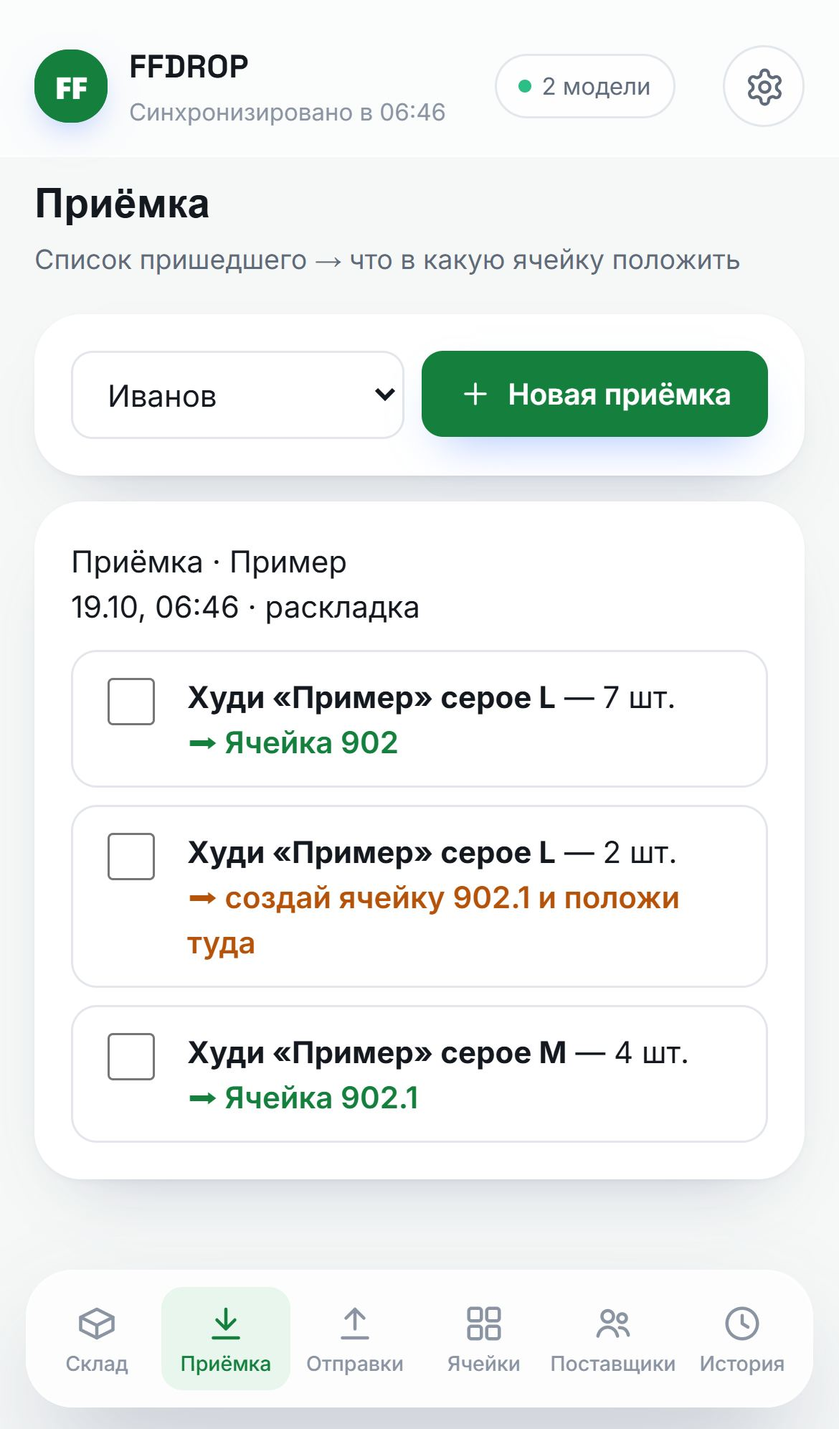
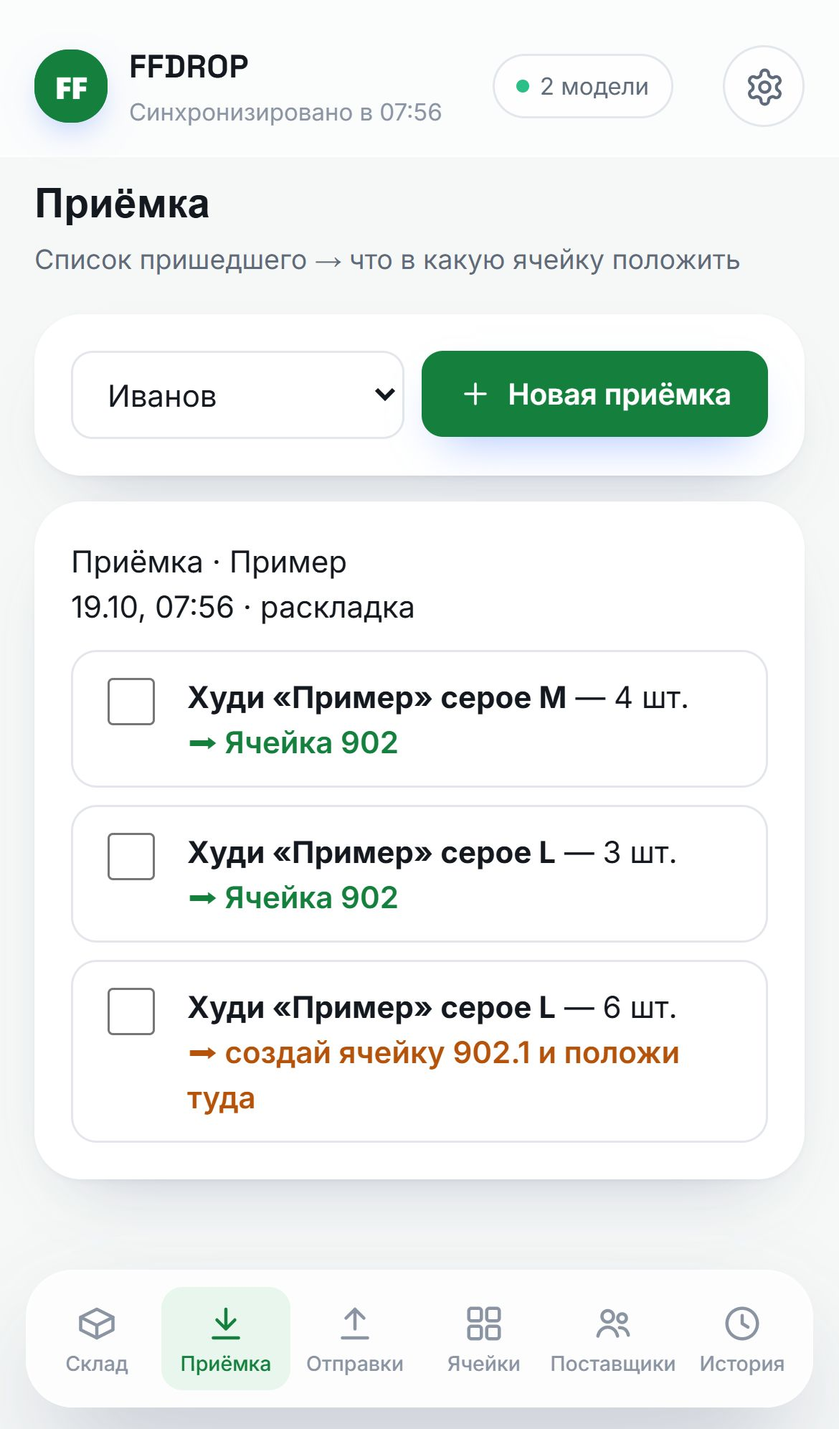
Выкладка FFDrop ffdrop-v4

diff --git a/app/index.html b/app/index.html
@@ -13,7 +13,7 @@
 <link rel="manifest" href="manifest.json">
 <link rel="apple-touch-icon" href="apple-touch-icon.png">
 <link rel="stylesheet" href="fonts/fonts.css">
-<link rel="stylesheet" href="css/app.css?v=3">
+<link rel="stylesheet" href="css/app.css?v=4">
 </head>
 <body>
 
@@ -61,6 +61,7 @@
   <symbol id="i-coins" viewBox="0 0 24 24"><ellipse cx="8.5" cy="6.5" rx="5.5" ry="3"/><path d="M3 6.5v4c0 1.66 2.46 3 5.5 3s5.5-1.34 5.5-3v-4"/><path d="M14 10.2c2.9-.2 6-1.4 6-3.2M9 13.5v3.5c0 1.66 2.46 3 5.5 3s5.5-1.34 5.5-3V13"/></symbol>
   <symbol id="i-grid" viewBox="0 0 24 24"><rect x="3.5" y="3.5" width="7" height="7" rx="1.5"/><rect x="13.5" y="3.5" width="7" height="7" rx="1.5"/><rect x="3.5" y="13.5" width="7" height="7" rx="1.5"/><rect x="13.5" y="13.5" width="7" height="7" rx="1.5"/></symbol>
   <symbol id="i-users" viewBox="0 0 24 24"><circle cx="9" cy="8" r="3.2"/><path d="M3.5 19c.6-3 2.9-5 5.5-5s4.9 2 5.5 5"/><circle cx="17" cy="9" r="2.4"/><path d="M15.5 14.3c2.4-.3 4.4 1.4 5 4.2"/></symbol>
+  <symbol id="i-arrow-left" viewBox="0 0 24 24"><path d="M19 12H5"/><path d="M11 6l-6 6 6 6"/></symbol>
 </svg>
 
 <aside class="side" aria-label="Меню"></aside>
@@ -808,13 +809,25 @@
   </div>
 </div>
 
-<!-- Вход — отдельный экран. Режимы (data-mode): login · register · forgot · newpass · noaccess.
+<!-- Вход — отдельный экран. Режимы (data-mode): choose · login · register · regwarehouse · forgot · newpass · noaccess.
      Работы «без входа» нет: главное хранилище — сервер (ОПИСАНИЕ §10). -->
-<div id="authModalBg" data-mode="login">
+<div id="authModalBg" data-mode="choose">
   <div class="auth-card">
+    <button type="button" class="auth-back" id="authBack" onclick="authBack()" aria-label="Назад" hidden><svg class="icon"><use href="#i-arrow-left"/></svg></button>
     <div class="auth-logo"><img src="icon-192.png" alt=""></div>
     <h2 id="authTitle">Вход</h2>
     <p id="authHint"></p>
+
+    <div class="auth-choose" id="authChoose" hidden>
+      <button type="button" class="auth-choice" id="authChooseSupplier" onclick="authMode('register')">
+        <span class="auth-choice-ico"><svg class="icon"><use href="#i-box"/></svg></span>
+        <span><b>Я поставщик</b><small>Мой товар хранится на складе. Склад дал мне код приглашения.</small></span>
+      </button>
+      <button type="button" class="auth-choice" id="authChooseWarehouse" onclick="authMode('regwarehouse')">
+        <span class="auth-choice-ico"><svg class="icon"><use href="#i-home"/></svg></span>
+        <span><b>У меня склад</b><small>Я фулфилмент: храню и отправляю товар поставщиков. 14 дней бесплатно.</small></span>
+      </button>
+    </div>
 
     <div class="auth-field" id="authEmailField">
       <label for="authEmail">Почта</label>
@@ -843,8 +856,7 @@
     <div class="alert success" id="authInfo" hidden></div>
 
     <button class="btn primary auth-submit" id="authSubmit" onclick="authSubmit()"><svg class="icon"><use href="#i-check"/></svg><span id="authSubmitText">Войти</span></button>
-    <button type="button" class="auth-skip auth-strong" id="authToRegWarehouse" onclick="authMode('regwarehouse')">Зарегистрировать склад — 14 дней бесплатно</button>
-    <button type="button" class="auth-skip" id="authToRegister" onclick="authMode('register')">Я поставщик — регистрация по коду</button>
+    <button type="button" class="auth-skip auth-strong" id="authToRegWarehouse" onclick="authMode('regwarehouse')" hidden>У меня свой склад — зарегистрировать</button>
     <button type="button" class="auth-skip" id="authToForgot" onclick="authMode('forgot')">Забыли пароль?</button>
     <button type="button" class="auth-skip" id="authToLogin" onclick="authMode('login')" hidden>Уже есть учётка — войти</button>
     <button type="button" class="auth-skip" id="authSignOut" onclick="authSignOut()" hidden>Выйти</button>
@@ -1010,34 +1022,34 @@
 <script src="vendor/zxing.min.js"></script>
 <script src="vendor/qrcode.min.js"></script>
 <script src="vendor/supabase.min.js"></script>
-<script src="sync-config.js?v=3"></script>
-<script src="js/db.js?v=3"></script>
-<script src="js/cells.js?v=3"></script>
-<script src="js/ff-data.js?v=3"></script>
-<script src="js/sync-ui.js?v=3"></script>
-<script src="js/input.js?v=3"></script>
-<script src="js/returns-scan.js?v=3"></script>
-<script src="js/sounds.js?v=3"></script>
-<script src="js/stock-history.js?v=3"></script>
-<script src="js/finance.js?v=3"></script>
-<script src="js/balance.js?v=3"></script>
-<script src="js/analytics.js?v=3"></script>
-<script src="js/settings-roles.js?v=3"></script>
-<script src="js/roles.js?v=3"></script>
-<script src="js/suppliers.js?v=3"></script>
-<script src="js/stock-ff.js?v=3"></script>
-<script src="js/cells-ui.js?v=3"></script>
-<script src="js/receipts.js?v=3"></script>
-<script src="js/shipments.js?v=3"></script>
-<script src="js/history-ff.js?v=3"></script>
-<script src="js/scan-ff.js?v=3"></script>
-<script src="js/demo.js?v=3"></script>
-<script src="js/subscription.js?v=3"></script>
-<script src="js/tariffs.js?v=3"></script>
-<script src="js/admin.js?v=3"></script>
-<script src="js/backup-labels.js?v=3"></script>
+<script src="sync-config.js?v=4"></script>
+<script src="js/db.js?v=4"></script>
+<script src="js/cells.js?v=4"></script>
+<script src="js/ff-data.js?v=4"></script>
+<script src="js/sync-ui.js?v=4"></script>
+<script src="js/input.js?v=4"></script>
+<script src="js/returns-scan.js?v=4"></script>
+<script src="js/sounds.js?v=4"></script>
+<script src="js/stock-history.js?v=4"></script>
+<script src="js/finance.js?v=4"></script>
+<script src="js/balance.js?v=4"></script>
+<script src="js/analytics.js?v=4"></script>
+<script src="js/settings-roles.js?v=4"></script>
+<script src="js/roles.js?v=4"></script>
+<script src="js/suppliers.js?v=4"></script>
+<script src="js/stock-ff.js?v=4"></script>
+<script src="js/cells-ui.js?v=4"></script>
+<script src="js/receipts.js?v=4"></script>
+<script src="js/shipments.js?v=4"></script>
+<script src="js/history-ff.js?v=4"></script>
+<script src="js/scan-ff.js?v=4"></script>
+<script src="js/demo.js?v=4"></script>
+<script src="js/subscription.js?v=4"></script>
+<script src="js/tariffs.js?v=4"></script>
+<script src="js/admin.js?v=4"></script>
+<script src="js/backup-labels.js?v=4"></script>
 <!-- после основного кода: синхронизация опирается на его функции -->
-<script src="sync.js?v=3"></script>
-<script src="js/layout.js?v=3"></script>
+<script src="sync.js?v=4"></script>
+<script src="js/layout.js?v=4"></script>
 </body>
 </html>

diff --git a/app/js/sync-ui.js b/app/js/sync-ui.js
@@ -31,9 +31,11 @@ async function refreshAfterSync(){
 }
 
 /* ============================================================
-   ОКНО ВХОДА: login · register · forgot · newpass · noaccess
+   ОКНО ВХОДА: choose · login · register · regwarehouse · forgot · newpass · noaccess
+   В каждом шаге (кроме первого и обязательной смены пароля) — стрелка «назад».
    ============================================================ */
 const AUTH_TEXT = {
+  choose:   {title:'Добро пожаловать в FFDrop', hint:'Кто вы?', submit:''},
   login:    {title:'Вход', hint:'Один вход на телефон и компьютер — данные хранятся на сервере.', submit:'Войти'},
   regwarehouse: {title:'Регистрация склада', hint:'14 дней бесплатно. Потом — подписка. Поставщики подключатся к складу по коду.', submit:'Зарегистрировать склад'},
   register: {title:'Регистрация поставщика', hint:'Введите код приглашения от склада, свою почту и придумайте пароль.', submit:'Зарегистрироваться'},
@@ -59,12 +61,14 @@ function authMode(mode){
   show('authPassField', mode === 'login' || mode === 'register' || mode === 'newpass' || (mode === 'regwarehouse' && !regSigned));
   show('authWhTitleField', mode === 'regwarehouse');
   show('authWhPhoneField', mode === 'regwarehouse');
-  show('authToRegWarehouse', mode === 'login' || mode === 'noaccess');
+  show('authChoose', mode === 'choose');
+  show('authSubmit', mode !== 'choose');
+  show('authToRegWarehouse', mode === 'noaccess');
   show('authCodeField', mode === 'register' || mode === 'noaccess');
-  show('authToRegister', mode === 'login');
   show('authToForgot', mode === 'login');
-  show('authToLogin', mode === 'register' || mode === 'forgot' || (mode === 'regwarehouse' && !regSigned));
+  show('authToLogin', mode === 'choose' || mode === 'register' || (mode === 'regwarehouse' && !regSigned));
   show('authSignOut', mode === 'noaccess' || regSigned || (mode === 'newpass' && authNewPassForced));
+  show('authBack', !!authBackTarget(mode));
   document.getElementById('authPassLabel').textContent = mode === 'newpass' ? 'Новый пароль' : 'Пароль';
   document.getElementById('authPass').setAttribute('autocomplete', (mode === 'login') ? 'current-password' : 'new-password');
   authError('');
@@ -73,6 +77,23 @@ function authMode(mode){
   const em = document.getElementById('authEmail');
   if(em && !em.value && window.Sync && Sync.lastLogin) em.value = Sync.lastLogin();
 }
+/* Куда ведёт стрелка «назад» из шага; null — стрелки нет. */
+function authBackTarget(mode){
+  if(mode === 'choose') return null;
+  if(mode === 'newpass') return authNewPassForced ? null : 'close';
+  if(mode === 'forgot') return 'login';
+  if(mode === 'noaccess') return 'signout';
+  if(mode === 'regwarehouse' && authSignedNoAccess) return 'noaccess';
+  return 'choose';
+}
+async function authBack(){
+  const t = authBackTarget(document.getElementById('authModalBg').dataset.mode);
+  if(t === 'close'){ document.getElementById('authModalBg').classList.remove('show'); return; }
+  if(t === 'signout'){ await authSignOut('choose'); return; }
+  if(t) authMode(t);
+}
+/* Первый экран без входа: уже входил на этом устройстве — сразу вход, иначе «Кто вы?». */
+function authStartMode(){ return (window.Sync && Sync.lastLogin && Sync.lastLogin()) ? 'login' : 'choose'; }
 function openAuth(mode){
   const bg = document.getElementById('authModalBg');
   if(!bg) return;
@@ -83,7 +104,7 @@ function openAuth(mode){
     /* Курсор ставим сами, только если человек ещё никуда не нажал: иначе он уже
        печатает в другом поле, и перенос курсора увёл бы ввод (код — в пароль). */
     const a = document.activeElement;
-    if(bg.dataset.mode !== openedMode || (a && a !== document.body && bg.contains(a))) return;
+    if(openedMode === 'choose' || bg.dataset.mode !== openedMode || (a && a !== document.body && bg.contains(a))) return;
     const id = (openedMode === 'newpass') ? 'authPass' : (openedMode === 'noaccess' ? 'authCode' : (openedMode === 'regwarehouse' && authSignedNoAccess) ? 'authWhTitle' : (document.getElementById('authEmail').value ? 'authPass' : 'authEmail'));
     const el = document.getElementById(id); if(el) el.focus();
   }, 60);
@@ -175,13 +196,13 @@ async function afterLogin(){
   toast('Вход выполнен');
   await Sync.start();
 }
-async function authSignOut(){
+async function authSignOut(nextMode){
   const pending = await Sync.pendingCount();
   if(pending && !confirm('На этом устройстве ' + pending + ' правок ещё не отправлено на сервер — при выходе они пропадут. Выйти?')) return;
   authNewPassForced = false; authSignedNoAccess = false;
   await Sync.signOut();
   await applyRoleUI();
-  openAuth('login');
+  openAuth(typeof nextMode === 'string' ? nextMode : 'login');
 }
 
 async function renderSyncStatusBox(){
@@ -239,7 +260,7 @@ async function initSync(){
   const started = await Sync.start();
   await applyRoleUI();
   /* С лендинга «Попробовать бесплатно» ведёт на app/#register — сразу регистрация склада. */
-  if(!started){ openAuth(location.hash === '#register' ? 'regwarehouse' : 'login'); return; }
+  if(!started){ openAuth(location.hash === '#register' ? 'regwarehouse' : authStartMode()); return; }
   if(Sync.role() === 'none' && !document.getElementById('ffAccessClosed')){
     authSignedNoAccess = true;
     openAuth(location.hash === '#register' ? 'regwarehouse' : 'noaccess');

diff --git a/index.html b/index.html
@@ -54,7 +54,7 @@ header{position:sticky;top:0;z-index:5;background:rgba(255,255,255,.92);backdrop
 h1{font-size:46px;line-height:1.1;margin:16px 0;letter-spacing:-.02em}
 h1 em{font-style:normal;color:var(--g2)}
 .lead{font-size:18px;color:var(--t2);margin:0 0 24px}
-.hero img{width:100%;border-radius:18px;border:1px solid var(--b);box-shadow:0 24px 60px -30px rgba(20,40,30,.35)}
+.hero img{width:100%;height:auto;border-radius:18px;border:1px solid var(--b);box-shadow:0 24px 60px -30px rgba(20,40,30,.35)}
 section{padding:64px 0}
 h2{font-size:34px;line-height:1.2;text-align:center;margin:0 0 10px;letter-spacing:-.01em}
 h2 em{font-style:normal;color:var(--g2)}
@@ -67,11 +67,11 @@ h2 em{font-style:normal;color:var(--g2)}
 .card p{margin:0;color:var(--t2);font-size:15px}
 .alt{background:var(--bg)}
 .shots{display:grid;grid-template-columns:2fr 1fr;gap:18px;align-items:start}
-.shots img{width:100%;border-radius:16px;border:1px solid var(--b);background:#fff}
+.shots img{width:100%;height:auto;border-radius:16px;border:1px solid var(--b);background:#fff}
 .shots .col{display:grid;gap:18px}
-.steps{counter-reset:s;display:grid;grid-template-columns:repeat(3,1fr);gap:18px}
-.step{position:relative;padding-top:56px}
-.step:before{counter-increment:s;content:counter(s);position:absolute;top:24px;left:24px;width:34px;height:34px;border-radius:50%;background:var(--gs);color:var(--g);font-weight:800;display:flex;align-items:center;justify-content:center}
+.steps{display:grid;grid-template-columns:repeat(3,1fr);gap:18px}
+/* номер шага — зелёный круг с белой цифрой, отдельной строкой над заголовком */
+.step-num{width:44px;height:44px;border-radius:50%;background:var(--g);color:#fff;font-weight:800;font-size:19px;display:flex;align-items:center;justify-content:center;margin-bottom:16px;box-shadow:0 8px 18px -8px rgba(21,128,61,.6)}
 .tariffs{display:grid;grid-template-columns:repeat(auto-fit,minmax(220px,1fr));gap:18px}
 .tariff .name{font-size:20px;font-weight:700;margin-bottom:4px}
 .tariff .cond{color:var(--t2);font-size:14px;min-height:21px}
@@ -110,7 +110,7 @@ footer{border-top:1px solid var(--b);padding:28px 0;color:var(--t2);font-size:14
     <p class="lead">FFDrop подсказывает, в какую ячейку положить товар и откуда его взять, считает остатки по каждому поставщику и работает на телефоне — даже без интернета.</p>
     <div class="btns"><a class="btn p" href="app/#register">Попробовать 14 дней бесплатно</a><a class="btn o" href="app/">Войти</a></div>
   </div>
-  <img src="img/screen-stock.jpg" width="1280" height="760" alt="Склад в FFDrop: модели, размеры и ячейки">
+  <img src="img/screen-stock.jpg" width="1024" height="520" alt="Склад в FFDrop: модели, размеры и ячейки">
 </div></div>
 
 <section id="features"><div class="wrap">
@@ -136,7 +136,7 @@ footer{border-top:1px solid var(--b);padding:28px 0;color:var(--t2);font-size:14
   <h2>Как это выглядит</h2>
   <p class="sub">Светлый понятный интерфейс: на компьютере меню слева, на телефоне — снизу.</p>
   <div class="shots">
-    <img src="img/screen-cells.jpg" width="1280" height="760" alt="Ячейки склада: модель, размеры, заполненность" loading="lazy">
+    <img src="img/screen-cells.jpg" width="1024" height="520" alt="Ячейки склада: модель, размеры, заполненность" loading="lazy">
     <img src="img/screen-receipt.jpg" width="390" height="844" alt="Приёмка на телефоне: задания с галочками" loading="lazy">
   </div>
 </div></section>
@@ -145,9 +145,9 @@ footer{border-top:1px solid var(--b);padding:28px 0;color:var(--t2);font-size:14
   <h2>Как начать</h2>
   <p class="sub">Пять минут — и склад работает.</p>
   <div class="steps">
-    <div class="card step"><h3>Зарегистрируйте склад</h3><p>Почта, пароль, название — и 14 дней бесплатно.</p></div>
-    <div class="card step"><h3>Разметьте ячейки</h3><p>Назначьте ячейки поставщикам, укажите модели и размеры — или пусть приложение раздаст их при первой приёмке.</p></div>
-    <div class="card step"><h3>Пригласите поставщиков</h3><p>Каждый получает код и видит в своём кабинете остатки и движение своего товара.</p></div>
+    <div class="card step"><div class="step-num">1</div><h3>Зарегистрируйте склад</h3><p>Почта, пароль, название — и 14 дней бесплатно.</p></div>
+    <div class="card step"><div class="step-num">2</div><h3>Разметьте ячейки</h3><p>Назначьте ячейки поставщикам, укажите модели и размеры — или пусть приложение раздаст их при первой приёмке.</p></div>
+    <div class="card step"><div class="step-num">3</div><h3>Пригласите поставщиков</h3><p>Каждый получает код и видит в своём кабинете остатки и движение своего товара.</p></div>
   </div>
 </div></section>
 

diff --git a/app/service-worker.js b/app/service-worker.js
@@ -1,6 +1,6 @@
 /* Версию бампаем при КАЖДОЙ выкладке — иначе у установленных приложений
    останется старый кеш, и правки увидят не сразу. */
-const CACHE_NAME = 'ffdrop-v3';   // не «ff-v»: так звался кеш старого SW в корне, его стирает самоудаляющийся SW
+const CACHE_NAME = 'ffdrop-v4';   // не «ff-v»: так звался кеш старого SW в корне, его стирает самоудаляющийся SW
 
 /* Всё, что нужно приложению для полностью автономной работы: оболочка,
    иконки, сканер штрихкодов, генератор QR и шрифты. Раньше сканер, QR и
@@ -24,35 +24,35 @@ const ASSETS = [
   /* Свои скрипты и стили — с номером версии в адресе (его поднимает
      выкладка вместе с CACHE_NAME): новая страница никогда не получит из
      кеша старый кусок кода, а старая — новый. */
-  './css/app.css?v=3',
-  './sync-config.js?v=3',
-  './js/db.js?v=3',
-  './js/cells.js?v=3',
-  './js/ff-data.js?v=3',
-  './js/sync-ui.js?v=3',
-  './js/input.js?v=3',
-  './js/returns-scan.js?v=3',
-  './js/sounds.js?v=3',
-  './js/stock-history.js?v=3',
-  './js/finance.js?v=3',
-  './js/balance.js?v=3',
-  './js/analytics.js?v=3',
-  './js/settings-roles.js?v=3',
-  './js/roles.js?v=3',
-  './js/suppliers.js?v=3',
-  './js/stock-ff.js?v=3',
-  './js/cells-ui.js?v=3',
-  './js/receipts.js?v=3',
-  './js/shipments.js?v=3',
-  './js/history-ff.js?v=3',
-  './js/scan-ff.js?v=3',
-  './js/demo.js?v=3',
-  './js/subscription.js?v=3',
-  './js/tariffs.js?v=3',
-  './js/admin.js?v=3',
-  './js/backup-labels.js?v=3',
-  './sync.js?v=3',
-  './js/layout.js?v=3',
+  './css/app.css?v=4',
+  './sync-config.js?v=4',
+  './js/db.js?v=4',
+  './js/cells.js?v=4',
+  './js/ff-data.js?v=4',
+  './js/sync-ui.js?v=4',
+  './js/input.js?v=4',
+  './js/returns-scan.js?v=4',
+  './js/sounds.js?v=4',
+  './js/stock-history.js?v=4',
+  './js/finance.js?v=4',
+  './js/balance.js?v=4',
+  './js/analytics.js?v=4',
+  './js/settings-roles.js?v=4',
+  './js/roles.js?v=4',
+  './js/suppliers.js?v=4',
+  './js/stock-ff.js?v=4',
+  './js/cells-ui.js?v=4',
+  './js/receipts.js?v=4',
+  './js/shipments.js?v=4',
+  './js/history-ff.js?v=4',
+  './js/scan-ff.js?v=4',
+  './js/demo.js?v=4',
+  './js/subscription.js?v=4',
+  './js/tariffs.js?v=4',
+  './js/admin.js?v=4',
+  './js/backup-labels.js?v=4',
+  './sync.js?v=4',
+  './js/layout.js?v=4',
   './fonts/fonts.css',
   './fonts/Inter-400-cyrillic.woff2',
   './fonts/Inter-400-latin.woff2',

diff --git a/app/css/app.css b/app/css/app.css
@@ -474,6 +474,27 @@ nav.bottom button.active{color:var(--accent);background:var(--accent-soft);}
   color:var(--text-secondary);font-size:13.5px;border-radius:12px;
 }
 @media (hover:hover){ .auth-skip:hover{background:var(--accent-soft);color:var(--accent-strong);} }
+/* стрелка «назад» — в каждом шаге окна входа */
+.auth-back{
+  position:absolute;left:12px;top:12px;width:40px;height:40px;border:none;border-radius:12px;
+  background:var(--bg-soft, #F3F5F4);color:var(--text);display:flex;align-items:center;justify-content:center;cursor:pointer;
+}
+.auth-back[hidden]{display:none;}
+.auth-back .icon{width:20px;height:20px;}
+@media (hover:hover){ .auth-back:hover{background:var(--accent-soft);color:var(--accent-strong);} }
+/* первый шаг «Кто вы?» */
+.auth-choose{display:flex;flex-direction:column;gap:12px;margin-bottom:6px;}
+.auth-choose[hidden]{display:none;}
+.auth-choice{
+  display:flex;align-items:center;gap:14px;width:100%;text-align:left;padding:16px;
+  border:1.5px solid var(--border);border-radius:16px;background:#fff;color:var(--text);cursor:pointer;
+  transition:border-color var(--dur),box-shadow var(--dur);
+}
+.auth-choice b{display:block;font-size:16px;margin-bottom:3px;}
+.auth-choice small{display:block;font-size:12.5px;line-height:1.4;color:var(--text-secondary);}
+.auth-choice-ico{flex:0 0 44px;width:44px;height:44px;border-radius:14px;background:var(--accent-soft);color:var(--accent);display:flex;align-items:center;justify-content:center;}
+.auth-choice-ico .icon{width:22px;height:22px;}
+@media (hover:hover){ .auth-choice:hover{border-color:var(--accent);box-shadow:0 0 0 4px var(--accent-soft);} }
 .auth-note{margin-top:14px;text-align:center;font-size:11.5px;line-height:1.4;color:var(--text-tertiary);}
 
 .toast{position:fixed;bottom:calc(96px + env(safe-area-inset-bottom));left:50%;transform:translateX(-50%) translateY(6px);background:rgba(36,42,61,.94);color:#fff;border:1px solid rgba(255,255,255,.12);padding:11px 18px;border-radius:var(--r-md);font-size:13px;font-weight:500;z-index:30;opacity:0;transition:opacity var(--dur),transform var(--dur);pointer-events:none;max-width:88%;text-align:center;box-shadow:var(--shadow-pop);}
